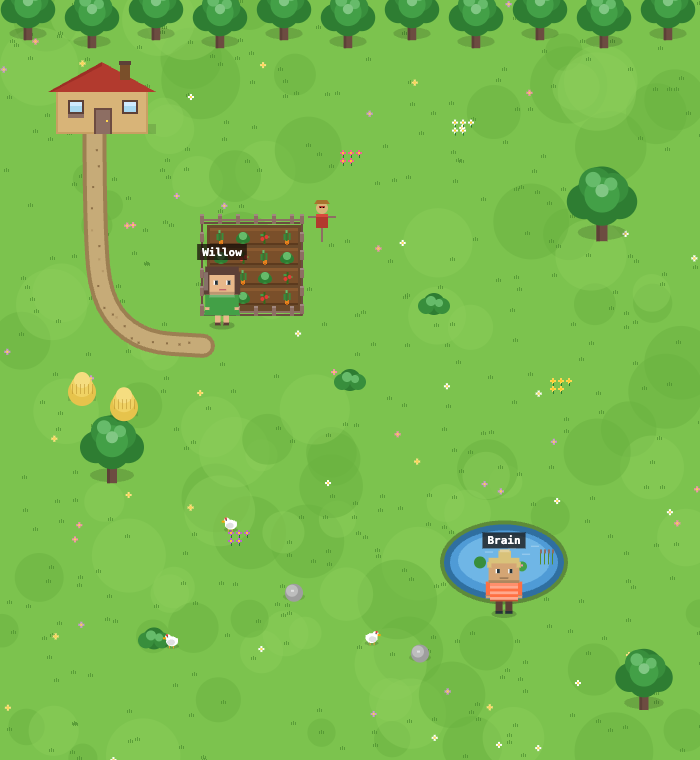
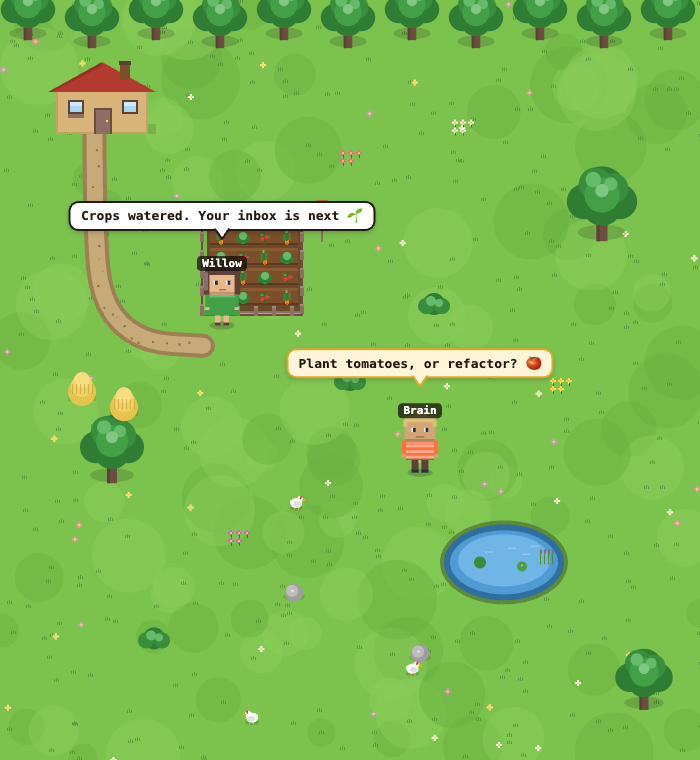
docs: give the screenshots a voice — speech bubbles + chat showcase
- Agents now talk in every scene shot: funny personality lines in
  speech bubbles (🟢 reporting back, 🟠 asking you a question)
- Add media/chat.png — a real prompt → work → "done" → "asks you"
  conversation, styled like the in-app chat drawer
- New "You talk, they work" section walks through the loop
- Refresh hero/farm/office renders with the talking agents

diff --git a/README.md b/README.md
@@ -16,7 +16,7 @@
 
 ![TaleSauce — a split-screen farm and office full of pixel-art AI agents](media/hero.png)
 
-*A living farm and office, side by side. Every character is a real AI agent. Every pixel is drawn in code.*
+*A living farm and office, side by side. Every character is a real AI agent — they work, chat, and ask you questions. Every pixel is drawn in code.*
 
 </div>
 
@@ -29,6 +29,14 @@ Most "AI agent" UIs are a text box and a spinner. TaleSauce asks a sillier, bett
 Give an agent a task and it strolls to its workstation and gets busy. Needs a decision from you? It walks to the front of the stage and waves a question. Finished? It reports back, then wanders off to hang out by the pond. Each one is backed by a real, swappable "brain" — a hosted endpoint or a local coding CLI — so the cute little farmer in green is genuinely running Claude Code against your repo.
 
 It's a toy. It's also a server-authoritative, fully-tested, real-time monorepo. Both things are true and that's the fun of it.
+
+## 💬 You talk, they work
+
+Click any character to open its chat. Hand it a task, and you watch the whole loop play out — it walks to its desk, does the work, **reports back when it's done**, and **stops to ask you** when there's a real decision to make. The same conversation drives the little pixel human on stage.
+
+![A chat with Kai: a task, a "done" report, and a clarifying question](media/chat.png)
+
+> 🟢 green bubble = *reported back* &nbsp;·&nbsp; 🟠 amber bubble = *needs your call* &nbsp;·&nbsp; the speech bubbles above each character mirror exactly what they're up to.
 
 ## 🎨 Every pixel is hand-coded — zero art packs
 
